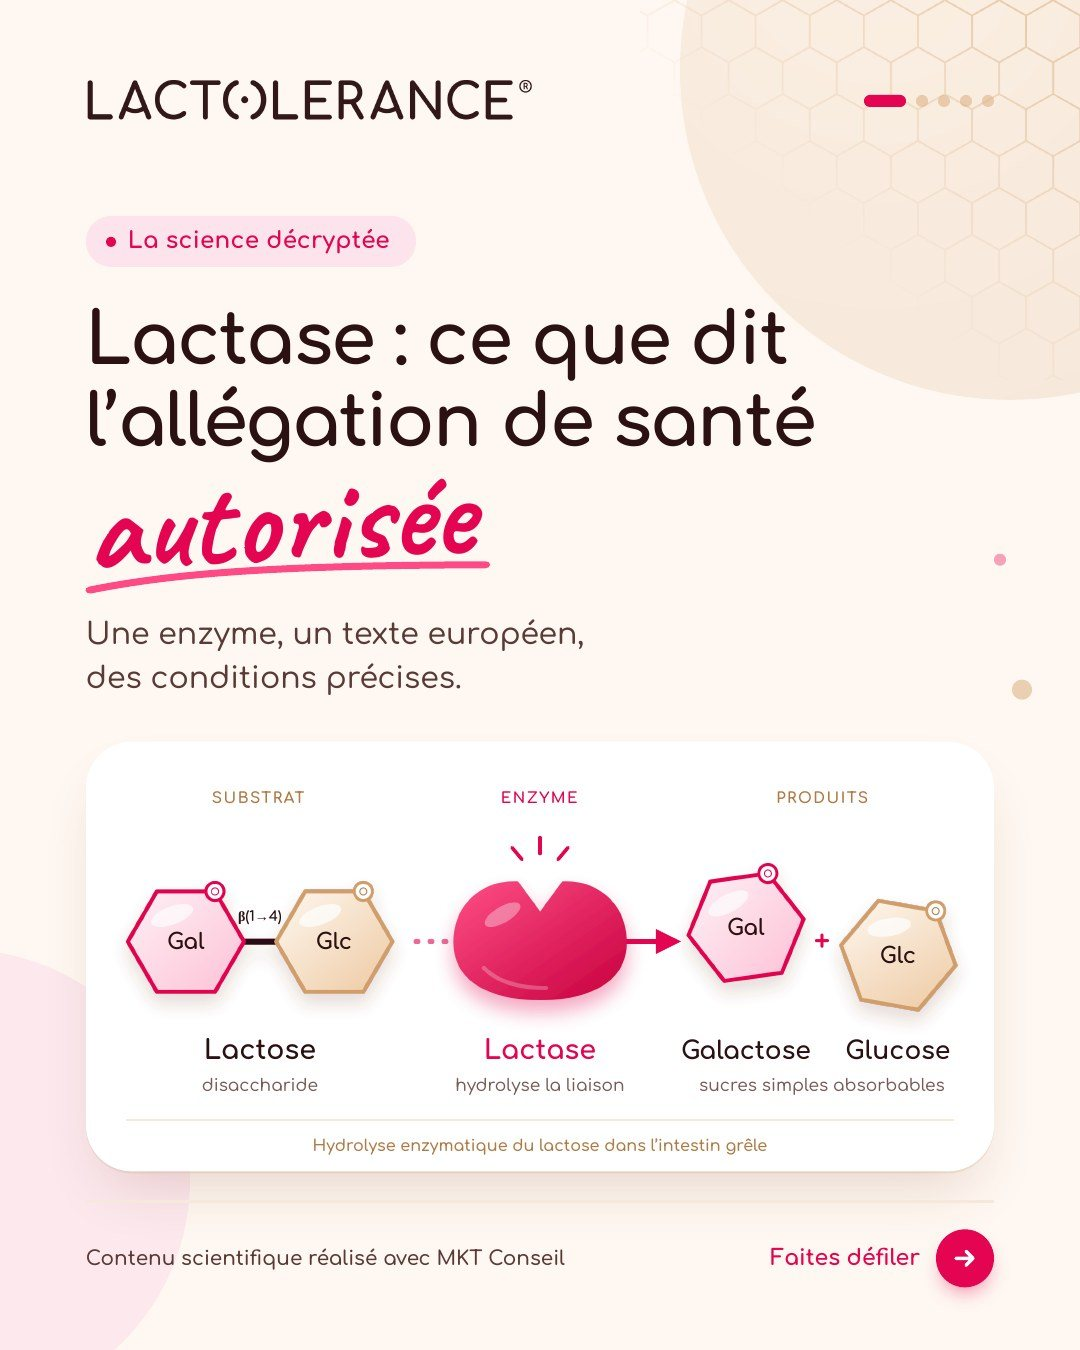
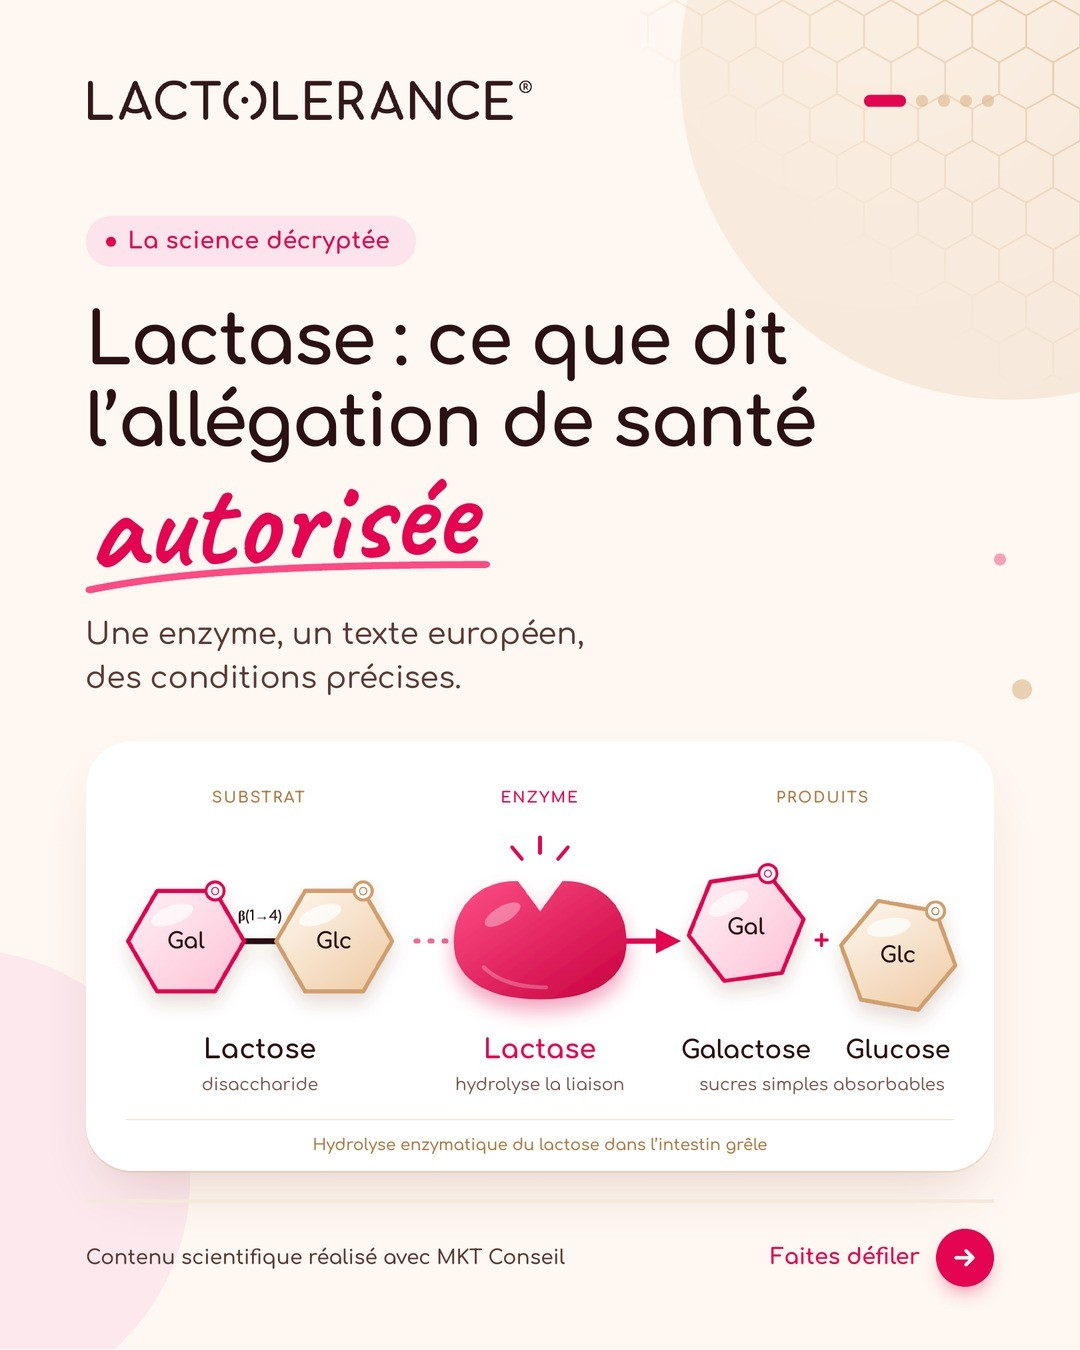
Carrousel : proportions 4:5 respectées et diapositives plus nettes
Claude-Session: https://claude.ai/code/session_018THUdyxv9ed671wmYwQ3gs

diff --git a/assets/css/style.css b/assets/css/style.css
@@ -48,7 +48,7 @@ section{padding-block:56px;border-top:1px solid var(--line)}
 .li-t{padding:4px 16px 12px;font-size:14.5px;line-height:1.5;white-space:pre-line}
 .li-t.clamp{max-height:calc(1.5em*4 + 4px);overflow:hidden;-webkit-mask-image:linear-gradient(#000 70%,transparent);mask-image:linear-gradient(#000 70%,transparent)}
 .more{background:none;border:0;padding:0 16px 12px;font:inherit;font-size:14px;color:#666;font-weight:700;cursor:pointer}
-.li img.vis{display:block;width:100%;height:auto;aspect-ratio:4/5}
+.li img.vis{display:block;width:100%;height:auto;aspect-ratio:4/5;object-fit:cover}
 .bar{display:flex;justify-content:space-around;border-top:1px solid #e6e6e6;padding:8px 4px;font-size:13.5px;font-weight:700;color:#666}
 .stats{display:flex;align-items:center;gap:6px;padding:8px 16px;font-size:12.5px;color:#666;font-variant-numeric:tabular-nums}
 .stats .sp{flex:1}.rx{display:inline-flex}
@@ -58,7 +58,7 @@ section{padding-block:56px;border-top:1px solid var(--line)}
 .car{position:relative}
 .track{display:flex;overflow-x:auto;scroll-snap-type:x mandatory;scrollbar-width:none}
 .track::-webkit-scrollbar{display:none}
-.track img{flex:0 0 100%;width:100%;scroll-snap-align:start;aspect-ratio:4/5;display:block}
+.track img{flex:0 0 100%;width:100%;height:auto;max-width:none;scroll-snap-align:start;aspect-ratio:4/5;object-fit:cover;display:block}
 .cbtn{position:absolute;top:50%;transform:translateY(-50%);width:46px;height:46px;border-radius:50%;border:0;background:#fff;box-shadow:0 4px 16px rgba(0,0,0,.25);cursor:pointer;display:grid;place-items:center}
 .cbtn svg{width:18px;height:18px;stroke:#2C1113;fill:none;stroke-width:2.4;stroke-linecap:round;stroke-linejoin:round}
 .cbtn.next{right:10px;background:#E40451}.cbtn.next svg{stroke:#fff}.cbtn.prev{left:10px}
